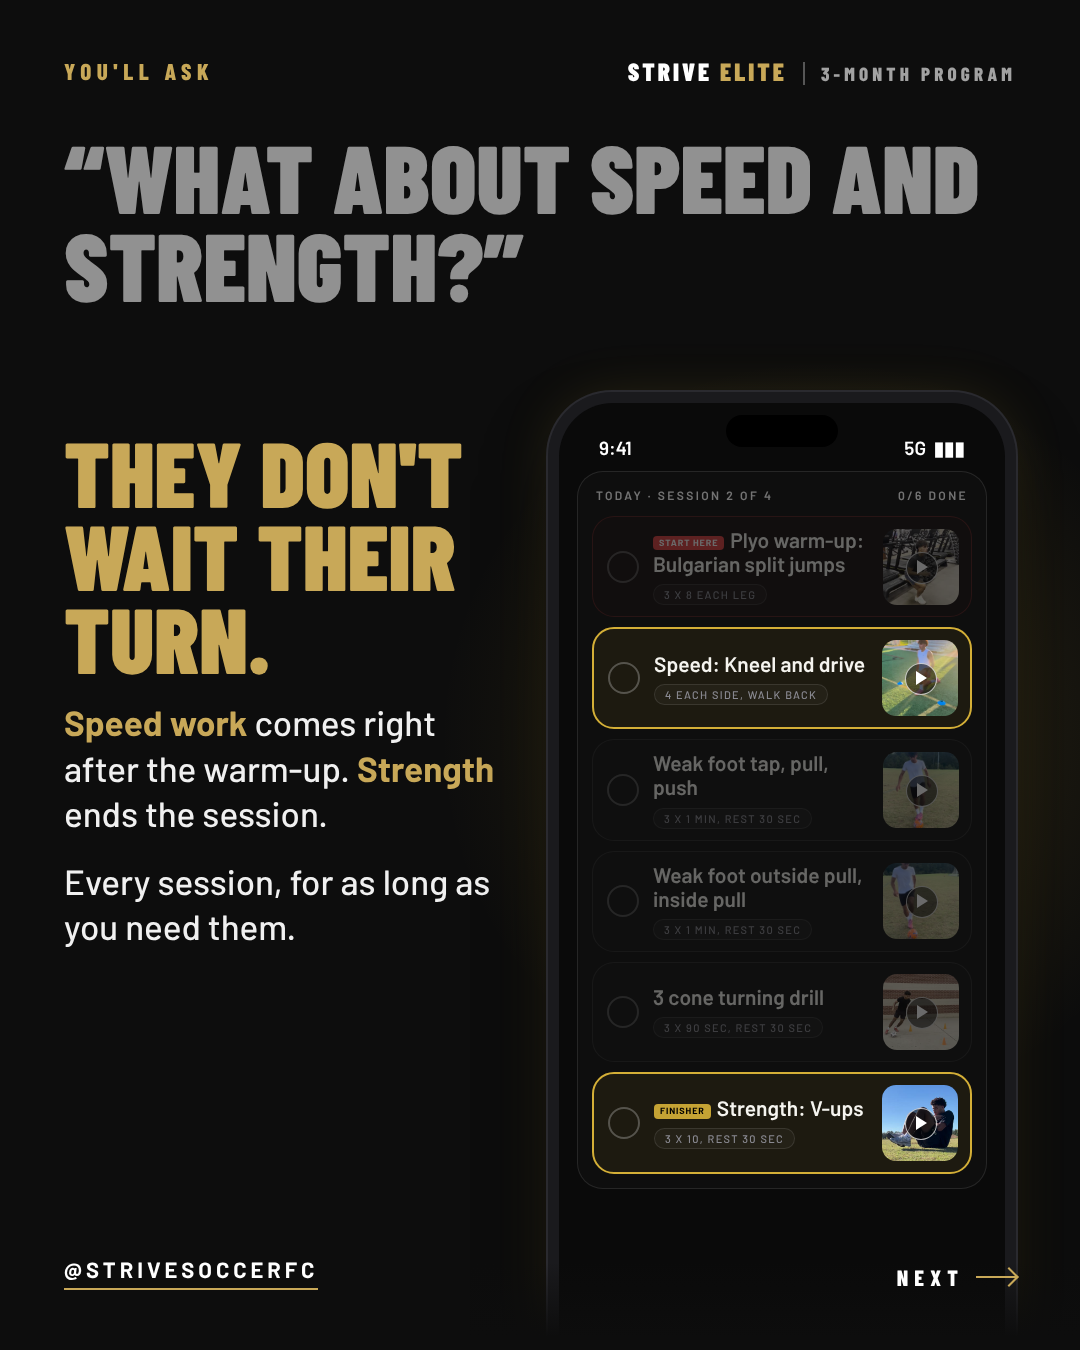
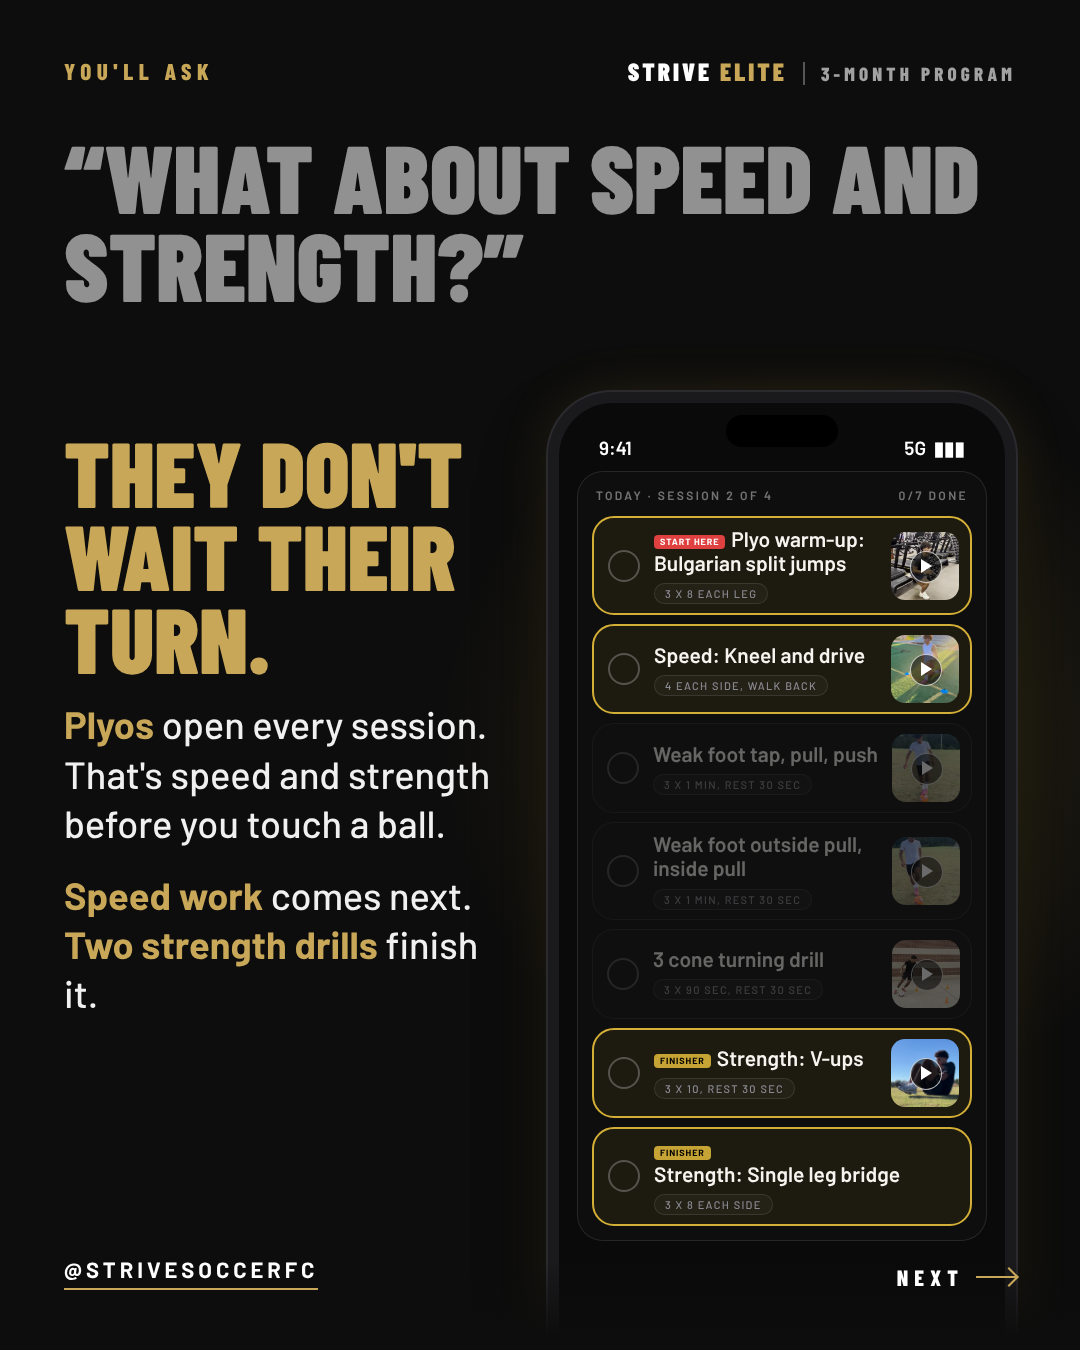
Opinion carousel: slide 10 lights the plyo warm-up and shows two strength finishers
Claude-Session: https://claude.ai/code/session_011JsCTTjCbUkHbTuWTKQSXJ

Changed region(s): [[0.55, 0.3733, 0.9167, 0.9022], [0.0611, 0.5289, 0.4583, 0.7467], [0.6111, 0.6222, 0.7944, 0.7467]]

diff --git a/marketing/program/one-thing-carousel-3/10-speed-strength.html b/marketing/program/one-thing-carousel-3/10-speed-strength.html
@@ -1,18 +1,19 @@
 <!doctype html><meta charset="utf-8"><link rel="stylesheet" href="../../covers/strive-elite-meeting/fonts.css"><link rel="stylesheet" href="style.css"><title>Speed and strength</title>
-<style>.q{position:absolute;left:64px;right:64px;top:132px;font-size:96px}.card{min-height:100px;padding:11px 12px 11px 14px}.th{width:76px;height:76px}.phone{top:392px;height:960px}.copy{top:430px}.copy .big{font-size:92px;line-height:.9}</style>
+<style>.q{position:absolute;left:64px;right:64px;top:132px;font-size:96px}.card{min-height:90px;padding:9px 11px 9px 14px}.cards{gap:9px}.th{width:68px;height:68px}.phone{top:392px;height:960px}.copy .p{font-size:38px}.copy{top:430px}.copy .big{font-size:92px;line-height:.9}</style>
 <div class="glow"></div>
 <div class="top"><div class="step">You'll ask</div><div class="wm">Strive <span>Elite</span><em>3-month program</em></div></div>
 <div class="q">&ldquo;What about speed and strength?&rdquo;</div>
 <div class="copy"><div class="big">They don't wait their turn.</div>
-<p class="p"><b>Speed work</b> comes right after the warm-up. <b>Strength</b> ends the session.</p>
-<p class="p">Every session, for as long as you need them.</p></div>
-<div class="phone"><div class="screen"><div class="island"></div><div class="status"><span>9:41</span><span>5G &nbsp;▮▮▮</span></div><div class="sess"><div class="shd"><span>Today · Session 2 of 4</span><span>0/6 done</span></div><div class="cards">
-<div class="card start lo"><div class="ck"></div><div class="tx"><div class="tl"><span class="bd red">Start here</span><span style="white-space:nowrap">Plyo warm-up:</span> Bulgarian split jumps</div><span class="chip">3 x 8 each leg</span></div><div class="th"><img src="app/plyo-bulgarian-split-jumps.jpg"></div></div>
+<p class="p"><b>Plyos</b> open every session. That's speed and strength before you touch a ball.</p>
+<p class="p"><b>Speed work</b> comes next. <b>Two strength drills</b> finish it.</p></div>
+<div class="phone"><div class="screen"><div class="island"></div><div class="status"><span>9:41</span><span>5G &nbsp;▮▮▮</span></div><div class="sess"><div class="shd"><span>Today · Session 2 of 4</span><span>0/7 done</span></div><div class="cards">
+<div class="card start hi"><div class="ck"></div><div class="tx"><div class="tl"><span class="bd red">Start here</span><span style="white-space:nowrap">Plyo warm-up:</span> Bulgarian split jumps</div><span class="chip">3 x 8 each leg</span></div><div class="th"><img src="app/plyo-bulgarian-split-jumps.jpg"></div></div>
 <div class="card hi"><div class="ck"></div><div class="tx"><div class="tl">Speed: Kneel and drive</div><span class="chip">4 each side, walk back</span></div><div class="th"><img src="app/speed-kneel-and-drive.jpg"></div></div>
 <div class="card lo"><div class="ck"></div><div class="tx"><div class="tl">Weak foot tap, pull, push</div><span class="chip">3 x 1 min, rest 30 sec</span></div><div class="th"><img src="app/weak-foot-tap-pull-push.jpg"></div></div>
 <div class="card lo"><div class="ck"></div><div class="tx"><div class="tl">Weak foot outside pull, inside pull</div><span class="chip">3 x 1 min, rest 30 sec</span></div><div class="th"><img src="app/weak-foot-outside-pull-inside-pull.jpg"></div></div>
 <div class="card lo"><div class="ck"></div><div class="tx"><div class="tl">3 cone turning drill</div><span class="chip">3 x 90 sec, rest 30 sec</span></div><div class="th"><img src="app/triangle-turning.jpg"></div></div>
 <div class="card hi"><div class="ck"></div><div class="tx"><div class="tl"><span class="bd gd">Finisher</span><span style="white-space:nowrap">Strength: V-ups</span></div><span class="chip">3 x 10, rest 30 sec</span></div><div class="th"><img src="app/strength-v-ups.jpg"></div></div>
+<div class="card hi"><div class="ck"></div><div class="tx"><div class="tl"><span class="bd gd">Finisher</span><span style="white-space:nowrap">Strength: Single leg bridge</span></div><span class="chip">3 x 8 each side</span></div></div>
 </div></div></div></div>
 <div class="fadeb"></div>
 <div class="handle">@strivesoccerfc</div><div class="swipe">Next <i></i></div>

diff --git a/CLAUDE.md b/CLAUDE.md
@@ -4025,6 +4025,7 @@ commit.
       THEN (Coach Yinka sent a photo of himself striking a ball in the black NVA training kit, stadium seats behind: "Center me In the pic better and use this pic"): the comeback slide carries that photo (photos/src/yinka-strike-stadium.jpg, scaled 1.33x so he sits on the centre line, head and chest clear in the top half). To give the photo the room, the headline moved under it on one line and "One thing at a time" became the header of the schedule (the separate "I didn't train everything" line is gone); his words and the three blocks are unchanged. A teammate's shoulder shows at the right edge, no face. Sent, not posted.
       THEN (Coach Yinka: "You can show a bit higher. That picture"): the photo sits about 80 px lower on the comeback slide, so more of the stand above his head shows and his head is clear of the top bar; text unchanged. Sent, not posted.
       THEN (Coach Yinka: "Amazing now send final"): THE FINAL OPINION CAROUSEL SENT, twelve slides re-rendered from source in posting order (marketing/program/one-thing-carousel-3/): cover, you know this session, say it's your weak foot, 2 drills, same 4 sessions now 8, harder (Week 1 tap, pull, push; Week 2 pop and juggle), his comeback, you get six, only weak foot, speed and strength, more to the game than drills, close; with the caption in the README (opens on the weak foot, his five months and best form of his life, DM ELITE). NOT POSTED. Still his before it goes up: whether "30 day" meant something other than the 3-month program the slides state; "Eyes closed" under a drill where the ball is in the air; Carla's ELITE reply should expect "your one thing"; it speaks to the player, not the parent; no price or guarantee on it by design.
+      THEN (Coach Yinka: "Do 2 strength finishers, and highllivjt plyos bc plyos is speed and strength"): slide 10's phone now lights the plyo warm-up, the speed drill and TWO strength finishers (Strength: V-ups, 3 x 10, rest 30 sec; Strength: Single leg bridge, 3 x 8 each side; bank titles and reps), seven cards; copy "They don't wait their turn. Plyos open every session. That's speed and strength before you touch a ball. Speed work comes next. Two strength drills finish it." FLAGS: (1) THE APP PLACES ONE FINISHER A SESSION (bank-conform.ts, the Oct 7 rule: at most one, always last), so a member opens a session with one, not two; making it two when strength is required is a builder change for every player's future weeks, not done, his word needed. (2) Single leg bridge has no picture: every strength clip but his V-ups cover is on files.manuscdn.com, still blocked from here (403 on a fresh try); a clip or screenshot from him fills it. Sent, not posted.
 
 ## Skills (use them without being asked)
 

diff --git a/marketing/program/one-thing-carousel-3/README.md b/marketing/program/one-thing-carousel-3/README.md
@@ -76,9 +76,14 @@ the strength finisher or the speed drill.
    foot. Two on the rest of your game. A different part every session, so
    nothing goes cold while your weak foot catches up. (The app's session:
    the warm-up, then four drills, the last two lit.)
-10. "WHAT ABOUT SPEED AND STRENGTH?" / THEY DON'T WAIT THEIR TURN. Speed
-    work comes right after the warm-up. Strength ends the session. Every
-    session, for as long as you need them. (The app's session, both lit.)
+10. "WHAT ABOUT SPEED AND STRENGTH?" / THEY DON'T WAIT THEIR TURN. Plyos
+    open every session. That's speed and strength before you touch a
+    ball. Speed work comes next. Two strength drills finish it. (The
+    app's session with the plyo warm-up, the speed drill and two strength
+    finishers lit: V-ups and Single leg bridge. His note: "Do 2 strength
+    finishers, and highlight plyos bc plyos is speed and strength." The
+    app places one finisher a session today; Single leg bridge has no
+    picture because its clip is on Manus.)
 11. "THERE'S MORE TO THE GAME THAN DRILLS." / WE KNOW. Every Sunday, Coach
     Gary and I go through clips from your games with you, live on Zoom.
     And once a month, a 1:1 call on where you're at. (The app's Film Room
